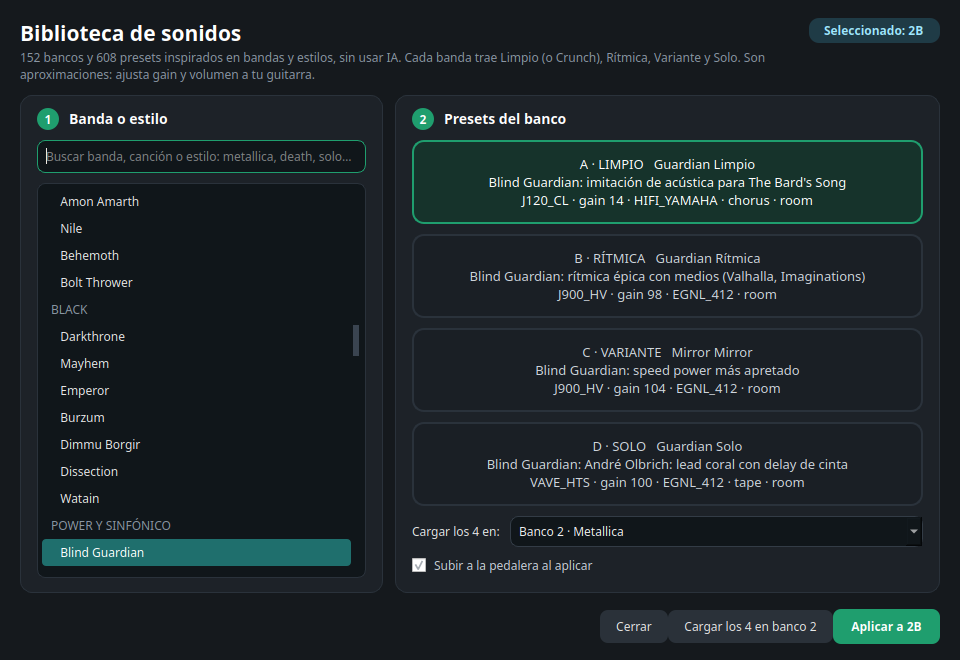
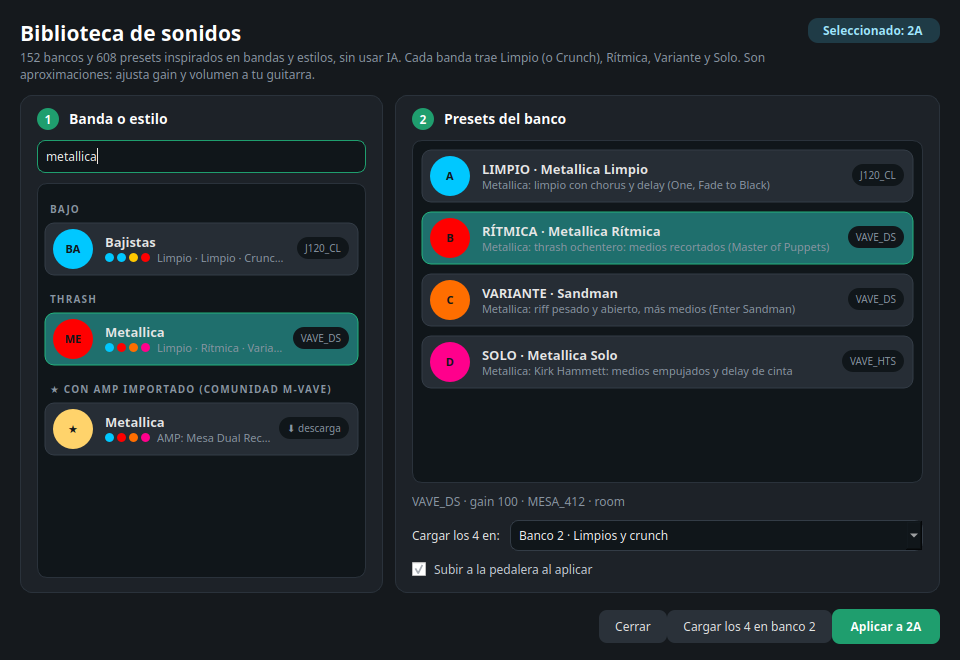
README and site: new Linux desktop captures (main window, setlists, stage mode, library)
- docs/img: desktop-main, desktop-library retaken with the card interface; new desktop-setlists and
  desktop-stage. Android captures unchanged.
- Site: "Para tocar en vivo" gallery (stage mode, setlists, library) and setlists in the feature list.
- CardDelegate: chips no longer inherit the badge text pen (a light outline on some chips).

diff --git a/docs/index.html b/docs/index.html
@@ -15,12 +15,27 @@ title: Tank-G Control Center
   <img src="img/desktop-main.png" width="520" alt="Ventana principal en el escritorio">
 </div>
 
+<h2>Para tocar en vivo</h2>
+<div class="gallery">
+  <figure class="wide"><img src="img/desktop-stage.png" alt="Modo escenario: canción actual en grande, su slot y la siguiente">
+    <figcaption><b>Modo escenario.</b> Pantalla completa con la canción, su slot, el AMP y la nota, sobre un brillo del
+      color del LED del preset. Las flechas, la barra espaciadora o un pedal pasa-páginas cambian de canción y la
+      activan en la pedalera.</figcaption></figure>
+  <figure><img src="img/desktop-setlists.png" alt="Ventana de setlists con las canciones en orden">
+    <figcaption><b>Setlists.</b> Todos tus shows guardados, con una nota por canción (afinación, capo, tempo) y
+      sincronizados con Google Drive. «Ordenar» los deja seguidos para pasarlos con los footswitches.</figcaption></figure>
+  <figure><img src="img/desktop-library.png" alt="Biblioteca de sonidos con bandas y presets">
+    <figcaption><b>Biblioteca de sonidos.</b> Más de 150 bancos y 600 presets de bandas y estilos, listos para cargar,
+      y packs con los AMP de la comunidad M-VAVE.</figcaption></figure>
+</div>
+
 <h2>Qué hace</h2>
 <ul>
   <li>Lee, edita y guarda los 36 presets de la pedalera, con una copia de seguridad antes de cada escritura y
     comprobación por relectura.</li>
   <li>Nombres para presets y bancos, color del LED, deshacer, copiar y pegar, intercambiar.</li>
   <li>Biblioteca de sonidos por banda y estilo, y generación de presets con IA.</li>
+  <li>Setlists con notas por canción y modo escenario en pantalla completa.</li>
   <li><b>Nube con Google Drive (opcional):</b> los mismos presets en todos tus equipos. La app usa el permiso
     <code>drive.file</code>, así que solo ve los archivos que ella misma crea, en la carpeta «Tank-G Control
     Center» de tu Drive.</li>

diff --git a/docs/_layouts/default.html b/docs/_layouts/default.html
@@ -35,6 +35,12 @@
     .btn.alt { background: var(--surface); color: var(--text); border: 1px solid var(--border); }
     .shots { display: flex; gap: 12px; justify-content: center; flex-wrap: wrap; margin: 24px 0; }
     .shots img { border-radius: 10px; border: 1px solid var(--border); }
+    .gallery { display: grid; grid-template-columns: repeat(auto-fit, minmax(300px, 1fr)); gap: 18px; margin: 20px 0; }
+    .gallery figure { margin: 0; }
+    .gallery img { display: block; width: 100%; border-radius: 12px; border: 1px solid var(--border); }
+    .gallery figcaption { color: var(--dim); font-size: .95em; margin-top: 8px; }
+    .gallery figcaption b { color: var(--text); }
+    .wide { grid-column: 1 / -1; }
     footer { color: var(--dim); font-size: .9em; padding-bottom: 32px; }
   </style>
 </head>

diff --git a/tankg/dialogs.py b/tankg/dialogs.py
@@ -1099,6 +1099,7 @@ class CardDelegate(QStyledItemDelegate):
             painter.setFont(scaled_font(option.font, 0.8))
             chip_w = painter.fontMetrics().horizontalAdvance(chip) + 16
             chip_r = QRectF(r.right() - chip_w - 8, r.center().y() - 11, chip_w, 22)
+            painter.setPen(Qt.NoPen)
             painter.setBrush(QColor(FIELD))
             painter.drawRoundedRect(chip_r, 11, 11)
             painter.setPen(QColor(TEXT_DIM))

diff --git a/README.md b/README.md
@@ -12,9 +12,13 @@ class-compliant: no necesita drivers) y, en la Tank-G v2, por **Bluetooth**.
   <img src="docs/img/desktop-main.png" width="520" alt="Ventana principal en el escritorio">
 </p>
 
-| Biblioteca de sonidos | Crear con IA | Subida con verificación |
+| Setlists con notas | Modo escenario | Biblioteca de sonidos |
 |---|---|---|
-| ![Biblioteca](docs/img/desktop-library.png) | ![IA](docs/img/desktop-ai.png) | ![Subida](docs/img/desktop-upload.png) |
+| ![Setlists](docs/img/desktop-setlists.png) | ![Modo escenario](docs/img/desktop-stage.png) | ![Biblioteca](docs/img/desktop-library.png) |
+
+| Crear con IA | Subida con verificación |
+|---|---|
+| ![IA](docs/img/desktop-ai.png) | ![Subida](docs/img/desktop-upload.png) |
 
 | Android: pedalera | Menú con buscador | Buscar «amp» | Packs de bandas con AMP | Crear con IA |
 |---|---|---|---|---|
